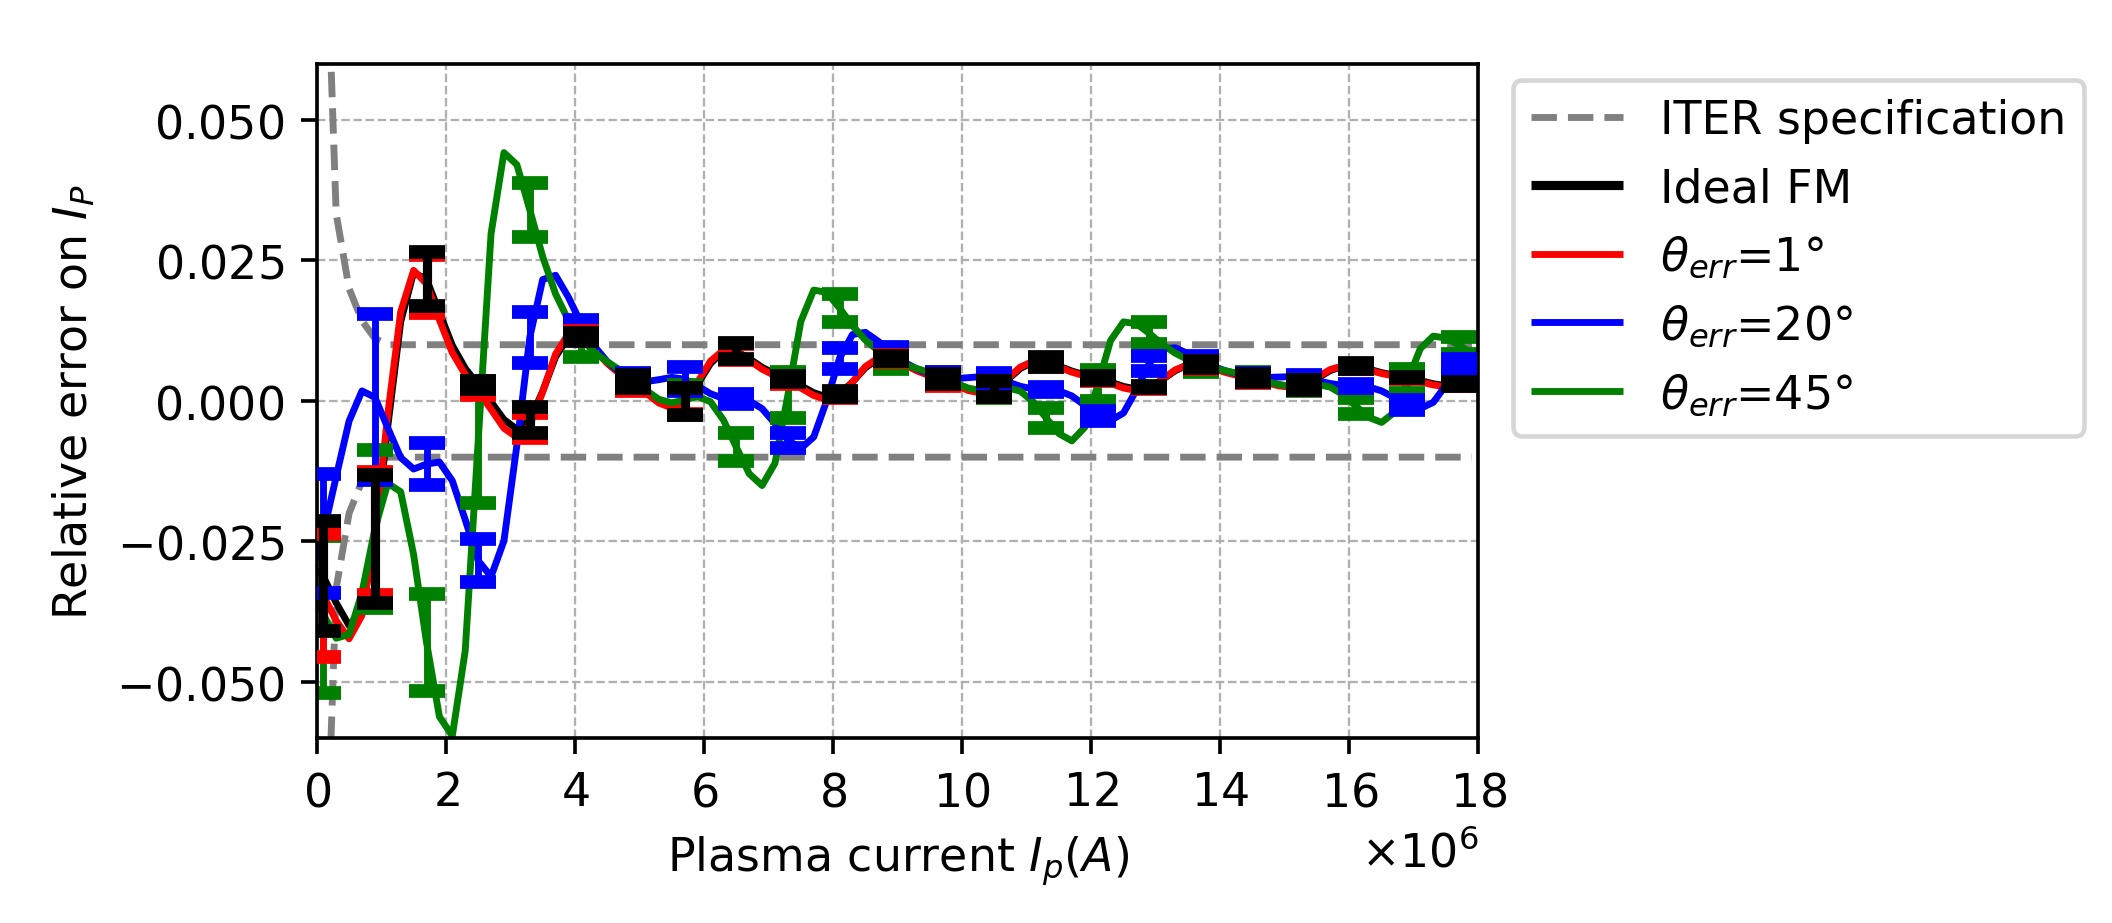
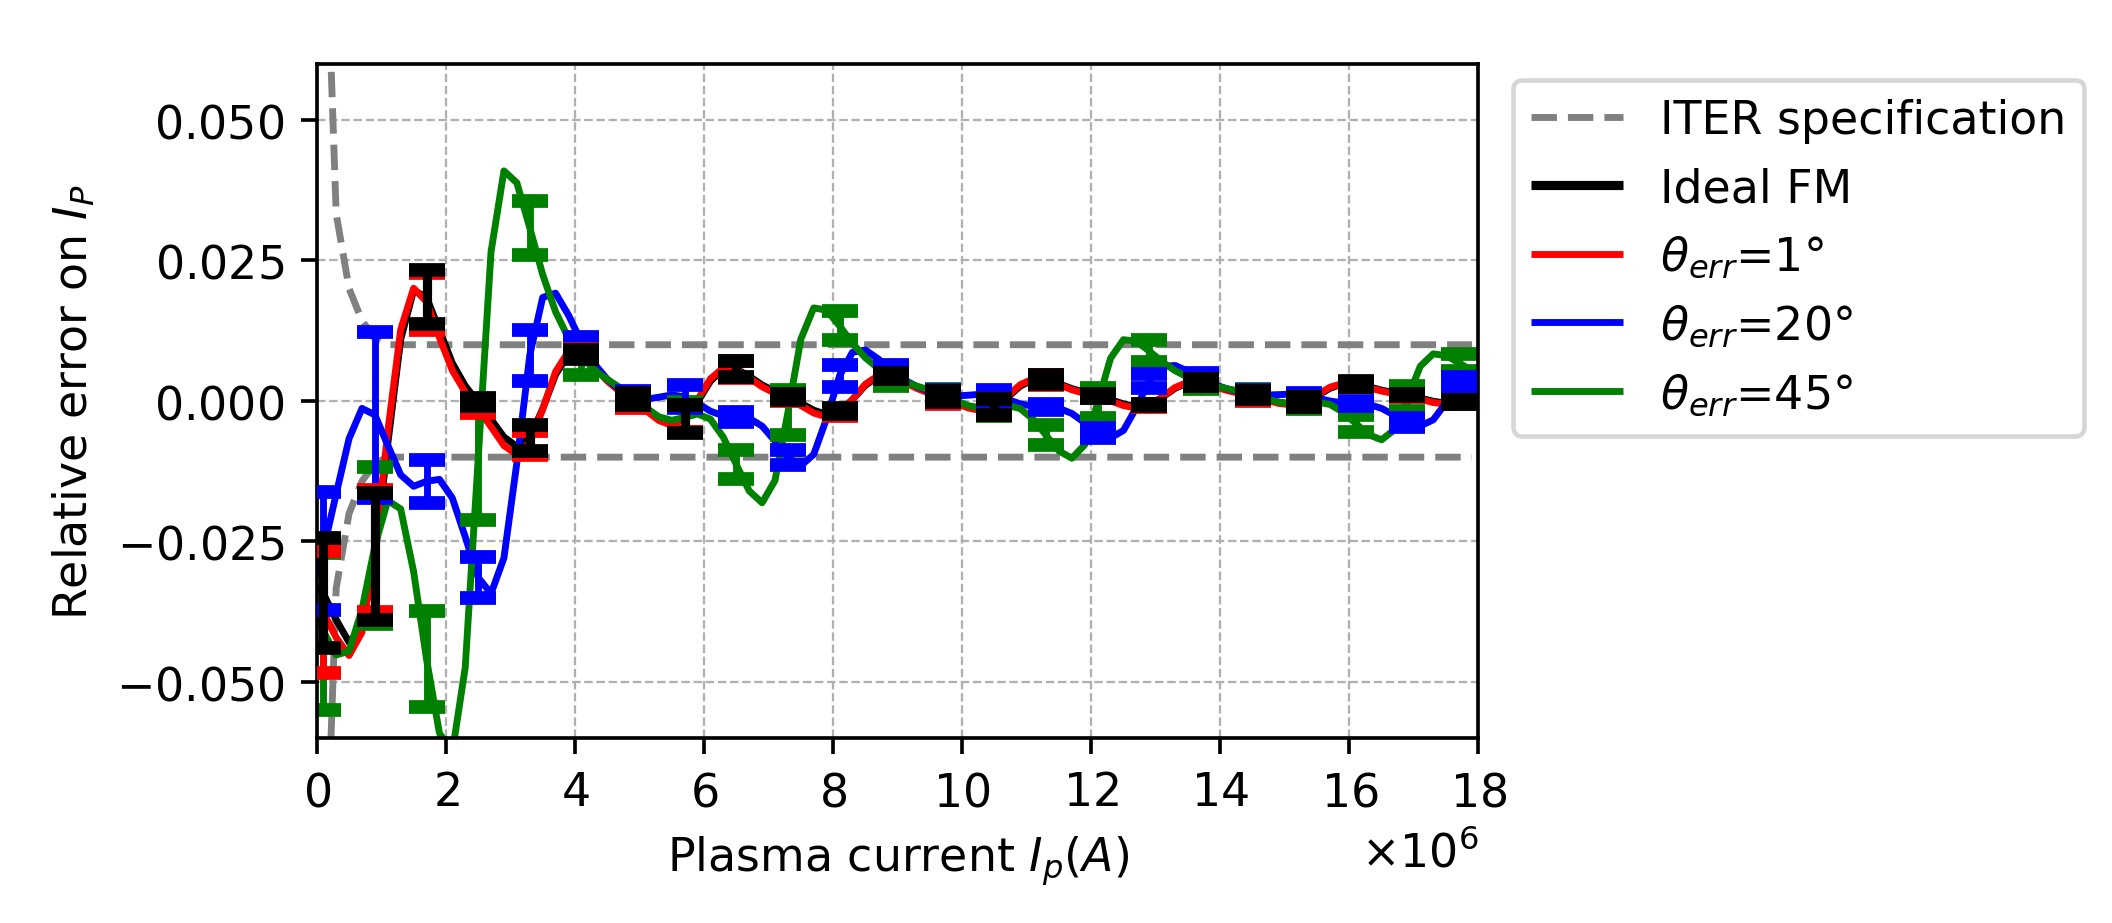
non-uniform LB

Changed region(s): [[0.125, 0.1517, 0.7188, 0.7887]]

diff --git a/FOCS_SIM_220501.py b/FOCS_SIM_220501.py
@@ -1,3 +1,11 @@
+'''
+Created 2022.06.02
+for journal paper
+
+FOCS accuracy Simulation with FM imperfection.
+
+'''
+
 # print(os.getcwd())
 # print(os.path.dirname(os.path.dirname(__file__)) + '\My_library')
 # sys.path.append(os.path.dirname(os.path.dirname(__file__)) + '\My_library')
@@ -41,7 +49,7 @@ def cm_to_rgba_tuple(colors,alpha=1):
     return tmp
 
 if __name__ == '__main__':
-    mode = 2
+    mode = 3
     LB = 1.000
     SP = 0.005
     # dz = SP / 1000
@@ -183,12 +191,12 @@ if __name__ == '__main__':
             while isEOF is False:
                 V_I, S, isEOF = load_stokes_fromfile(strfile1 + "_S", nn)
 
-                fig, ax, lines = plot_error_byStokes(V_I, S, fig=fig, ax=ax, lines=lines, V_custom=V2*0.962,label=str(nn))
+                fig, ax, lines = plot_error_byStokes(V_I, S, fig=fig, ax=ax, lines=lines, V_custom=V2*0.965,label=str(nn))
                 fig3, lines3 = plot_Stokes(V_I[20:35:2], S[20:35:2], fig=fig3, lines=lines3, opacity=opacity)
 
                 if nn == 0:
                     dic_err['V_I'] = V_I
-                dic_err[str(nn)] = cal_error_fromStocks(V_I, S, V_custom=V2*0.962)
+                dic_err[str(nn)] = cal_error_fromStocks(V_I, S, V_custom=V2*0.965)
                 c = np.array([None, None, None])
                 nn += 1
                 # if nn > 0:
@@ -321,6 +329,161 @@ if __name__ == '__main__':
     #
     #     #fig3, ax3, lines3 = plot_error_byfile2(strfile1 + "_S")
         fig3.show()
+
+    elif mode == 3:
+
+        V_strfile = ['Lobi_45FM_errdeg1x5_220601.csv',
+                     'Hibi_45FM_errdeg1x5_220601.csv']
+
+        V_label = ['Ideal FM', 'Nonideal ']
+        V2 = 0.54 * 4 * pi * 1e-7 * 2
+
+        fig, ax, lines, isEOF, nn = None, None, None, False, 0
+        fig3, lines3, opacity = None, None, 0.5
+        fig10, ax10, lines10 = None, None, []
+        c = np.array([None, None, None])
+
+
+        for strfile1 in V_strfile:
+            dic_err = {}
+            nn = 0
+            while isEOF is False:
+                V_I, S, isEOF = load_stokes_fromfile(strfile1 + "_S", nn)
+
+                Vtmp  = V2 if strfile1 == 'Lobi_45FM_errdeg1x5_220531.csv' else V2 * 0.962
+                if nn == 0:
+                    dic_err['V_I'] = V_I
+                dic_err[str(nn)] = cal_error_fromStocks(V_I, S, V_custom=Vtmp)
+                c = np.array([None, None, None])
+                nn += 1
+                # if nn > 0:
+                #     break
+
+            fig10, ax10, lines10 = plot_errorbar_byDic(dic_err, fig=fig10, ax=ax10, lines=lines10, init_index=21)
+            isEOF = False
+        # ax10.legend(lines10, ['ITER specification', '',
+        #                                  r'Ideal FM $\theta_{err}$=0$\degree$',
+        #                                  r'$\theta_{err}$=1$\degree$', '', '','', ''])
+
+        ax10.legend( [lines10[0], lines10[4], lines10[7]],
+                     ['ITER specification',
+                      'lo-bi spun fiber',
+                      'hi-bi spun fiber'],
+                     bbox_to_anchor=(1.01, 1.01), loc="upper left")
+        #fig10.savefig("fig9.(b).jpg", dpi=330)
+
+        # print(legend)
+        # r'$\theta_{err}$=20$\degree$'])
+        # r'$\theta_{err}$=45$\degree$'])
+
+        #ax.legend()
+    # elif mode ==5:
+    #
+    #     strfile1 = 'FMerror.csv'
+    #     num_iter = 500
+    #
+    #     nM_vib = 5
+    #     #ang_FM = np.arange(0,46,1)
+    #     ang_FM = np.arange(0, 46, 1)
+    #
+    #     E = Jones_vector('input')
+    #     E1 = Jones_vector('output')
+    #     azi = np.array([0, pi / 6, pi / 4])
+    #     E.general_azimuth_ellipticity(azimuth=azi, ellipticity=0)
+    #     #fig1, ax1 = spunfiber.init_plot_SOP()
+    #     S = create_Stokes('O')
+    #
+    #     # outdict = {}
+    #     # for nn in ang_FM:
+    #     #     Vin = E[0].parameters.matrix()
+    #     #     print(nn)
+    #     #     Vout = spunfiber.cal_2ndBridge(45+nn/10, num_iter, Vin=Vin)
+    #     #     outdict[str(int(nn)) + ' Ex'] = Vout[:, 0, 0]
+    #     #     outdict[str(int(nn)) + ' Ey'] = Vout[:, 1, 0]
+    #     # df = pd.DataFrame(outdict)
+    #     # df.to_csv(strfile1, index=False)
+    #
+    #
+    #     ######## FM error############
+    #     fig, ax = plt.subplots(figsize=(6, 5))
+    #     lines = []
+    #     # ax.set_prop_cycle(cc)
+    #
+    #     ax.set_xlabel(r'FM angle error $\theta_{err}(\degree)$')
+    #     ax.set_ylabel(r'SOP deviation ($\degree$)')
+    #
+    #     # ax.set(xlim=(0, 45), ylim=(0, 12))
+    #     ax.set(xlim=(0, 45), ylim=(0, 12))
+    #
+    #     ax.yaxis.set_major_locator(MaxNLocator(6))
+    #     ax.xaxis.set_major_locator(MaxNLocator(10))
+    #
+    #     ax.xaxis.set_major_formatter(OOMFormatter(0, "%1.0f"))
+    #     ax.yaxis.set_major_formatter(OOMFormatter(0, "%2.1f"))
+    #
+    #     ax.ticklabel_format(axis='x', style='sci', useMathText=True, scilimits=(-3, 5))
+    #     ax.grid(ls='--', lw=0.5)
+    #
+    #     fig.subplots_adjust(hspace=0.4,left =0.17, right=0.95, top=0.93, bottom=0.2)
+    #
+    #     ######################
+    #
+    #
+    #     data = pd.read_csv(strfile1)
+    #     fig3, lines3, opacity = None, None, 1
+    #
+    #     # color palette prepared for each input SOPs with plotly library
+    #     colors_Viridis_tmp = px.colors.sample_colorscale("Viridis", [n / (len(ang_FM) - 1) for n in range(len(ang_FM))])
+    #     colors_Viridis = cm_to_rgba_tuple(colors_Viridis_tmp)
+    #     out_ellip = zeros(len(ang_FM))
+    #
+    #     for nn in range(int(data.shape[1] / 2)):
+    #
+    #         str_Ex = str(nn) + ' Ex'
+    #         str_Ey = str(nn) + ' Ey'
+    #         Vout = np.array([[complex(x) for x in data[str_Ex].to_numpy()],
+    #                          [complex(y) for y in data[str_Ey].to_numpy()]])
+    #         E.from_matrix(Vout)
+    #         S.from_Jones(E)
+    #         #draw_stokes_points(fig1[0], S, kind='scatter', color_scatter='r')
+    #         fig3, lines3 = plot_Stokes_pnt2(S, fig=fig3, lines=lines3, opacity=opacity, color_pnt=rgb2hex(colors_Viridis[nn]))
+    #         ellip = S.parameters.ellipticity_angle()
+    #         out_ellip[-1-nn] = ellip.max() - ellip.min()
+    #
+    #     ax.plot(ang_FM, out_ellip*180/pi, 'k')
+    #     #fig3.update_traces(marker_size=3)
+    #     colorbar_param = dict(lenmode='fraction', len=0.75, thickness=10, tickfont=dict(size=20),
+    #                           tickvals=np.linspace(0, len(ang_FM), 4),
+    #                           ticktext=['0', '15', '30', '45'],
+    #                           # title='Azimuth angle',
+    #                           outlinewidth=1,
+    #                           x=0.2)
+    #     colorbar_trace = go.Scatter(x=[None], y=[None],
+    #                                 mode='markers',
+    #                                 marker=dict(
+    #                                     colorscale='Viridis',
+    #                                     showscale=True,
+    #                                     cmin=0,
+    #                                     cmax=len(ang_FM),
+    #                                     colorbar=colorbar_param
+    #                                 ),
+    #                                 hoverinfo='none'
+    #                                 )
+    #     fig3.add_trace(colorbar_trace)
+    #     fig3['layout']['paper_bgcolor'] = 'rgba(0,0,0,0)'
+    #     fig3['layout']['plot_bgcolor'] = 'rgba(0,0,0,0)'
+    #     fig3.update_yaxes(showticklabels=False, showgrid=False, visible=False)
+    #     fig3.update_xaxes(showticklabels=False, showgrid=False, visible=False)
+    #
+    #
+    #     #fig2, ax2, lines = spunfiber.plot_error(strfile1)
+    #
+    #     # labelTups = [('Stacking matrix (dz = SP/25)', 0), ('Lamming method with small step (dz = SP/25)', 1),
+    #     #              ('Lamming method for whole fiber (dz = L)', 2), ('Iter specification', 3)]
+    #     # ax2.legend(lines, [lt[0] for lt in labelTups], loc='upper right', bbox_to_anchor=(0.7, .8))
+    #
+    #     #fig3, ax3, lines3 = plot_error_byfile2(strfile1 + "_S")
+    #     fig3.show()
 
     plt_fmt, plt_res = '.png', 330  # 330 is max in Word'16
     plt.rcParams["axes.titlepad"] = 5  # offset for the fig title

diff --git a/FOCS_SIM_220519.py b/FOCS_SIM_220519.py
@@ -1,3 +1,9 @@
+'''
+Created 2022.06.02
+for analysing JET fiber's behavior
+
+'''
+
 # print(os.getcwd())
 # print(os.path.dirname(os.path.dirname(__file__)) + '\My_library')
 # sys.path.append(os.path.dirname(os.path.dirname(__file__)) + '\My_library')
@@ -11,7 +17,7 @@ start = time.process_time()
 # from My_Library import SPUNFIBRE_lib
 import plotly.offline
 
-from My_Library.SPUNFIBRE_lib import *
+from My_Library.SPUNFIBER2_lib import *
 from My_Library.draw_figures_FOCS import *
 
 from My_Library.basis_correction_lib import *
@@ -42,14 +48,14 @@ def cm_to_rgba_tuple(colors,alpha=1):
     return tmp
 
 if __name__ == '__main__':
-    mode =0
+    mode =4
     # Crystal Techno lobi spun fiber
     LB = 0.3
     SP = 0.005
     # dz = SP / 1000
     dz = 0.0001
     len_lf = 1  # lead fiber
-    len_ls = 1  # sensing fiber
+    len_ls = 5  # sensing fiber
     spunfiber = SPUNFIBER(LB, SP, dz, len_lf, len_ls)
 
     #strfile1 = 'Hibi_46FM_errdeg1x5_220506.csv'
@@ -259,6 +265,79 @@ if __name__ == '__main__':
         fig3.update_scenes(camera_projection_type='orthographic')
         fig3.show()
         #plotly.offline.plot(fig3, filename='xx.html')
+
+    elif mode == 4:
+        fig = None
+        V_I = arange(0e6, 10e6 + 0.1e6, 0.2e6)
+        Ip = zeros(len(V_I))
+
+        V_out = np.einsum('...i,jk->ijk', ones(len(V_I)) * 1j, np.mat([[0], [0]]))
+
+        # V_I = 1e6
+        out_dict = {'Ip': V_I}
+        out_dict2 = {'Ip': V_I}
+        start = pd.Timestamp.now()
+        ang_FM = 45
+
+        E = Jones_vector('input')
+        azi = np.array([0, pi/6, pi/4])
+        E.general_azimuth_ellipticity(azimuth=azi, ellipticity=pi/12)
+        fig1, ax1 = spunfiber.init_plot_SOP()
+        S = create_Stokes('O')
+        S2 = create_Stokes('1')
+
+
+        Vin = E[1].parameters.matrix()
+
+        s_t_r = 2 * pi / spunfiber.SP
+        spunfiber.dz = spunfiber.L / 1000
+        V_L = arange(0, spunfiber.L + spunfiber.dz, spunfiber.dz)
+        nV_L = V_L/spunfiber.L
+
+        V_theta= V_L * s_t_r
+
+        V_delta = 2*pi/(LB * (1- 1*cos(2*pi*0.5*nV_L))+0.000001)
+        print(V_delta)
+
+        for mm, iter_I in enumerate(V_I):
+            M_f = spunfiber.lamming_JET(iter_I, 1, V_delta, V_theta, V_L)
+            V_out[mm] = M_f @ Vin
+
+        E = Jones_vector('Output')
+        E.from_matrix(M=V_out)
+        V_ang = zeros(len(V_I))
+
+        # SOP evolution in Lead fiber (Forward)
+        S = create_Stokes('Output_S')
+        S.from_Jones(E)
+
+        if fig is not None:
+            draw_stokes_points(fig[0], S, kind='line', color_line='b')
+        else:
+            fig, ax = S.draw_poincare(figsize=(7, 7), angle_view=[24 * pi / 180, 31 * pi / 180], kind='line',
+                                      color_line='b')
+
+        m = 0
+        for kk in range(len(V_I)):
+            if kk > 0 and E[kk].parameters.azimuth() + m * pi - V_ang[kk - 1] < -pi * 0.8:
+                m = m + 1
+            elif kk > 0 and E[kk].parameters.azimuth() + m * pi - V_ang[kk - 1] > pi * 0.8:
+                m = m - 1
+            V_ang[kk] = E[kk].parameters.azimuth() + m * pi
+            Ip[kk] = (V_ang[kk] - pi / 2) / (spunfiber.V)
+
+        # save_Jones(strfile1,V_I,Ip,Vout)
+        #
+        #
+        #
+        # fig2, ax2, lines = spunfiber.plot_error(strfile1)
+        #
+        # # labelTups = [('Stacking matrix (dz = SP/25)', 0), ('Lamming method with small step (dz = SP/25)', 1),
+        # #              ('Lamming method for whole fiber (dz = L)', 2), ('Iter specification', 3)]
+        # # ax2.legend(lines, [lt[0] for lt in labelTups], loc='upper right', bbox_to_anchor=(0.7, .8))
+        #
+        #
+        # fig3, ax3, lines3 = plot_error_byfile2(strfile1+"_S")
 
 
     plt.show()

diff --git a/My_Library/SPUNFIBER2_lib.py b/My_Library/SPUNFIBER2_lib.py
@@ -658,6 +658,73 @@ class SPUNFIBER:
         # print(tmp) # To show where is the position of Merr
         return M
 
+    def lamming_JET(self, Ip, DIR, V_delta, V_theta, V_L):
+        """
+        :param DIR: direction (+1: forward, -1: backward)
+        :param Ip: plasma current
+        :param L: fiber length
+        :param V_theta: vector of theta (angle of optic axes)
+        :return: M matrix calculated from N matrix
+        """
+        m = 0
+        # Fiber parameter
+        s_t_r = 2 * pi / self.SP * DIR  # spin twist ratio
+        delta = 2 * pi / self.LB
+
+
+        r = self.L /(2*pi)
+        V_H = Ip / (2*pi*r) * ones(len(V_L))
+        V_rho = self.V * V_H    # <<- Vector
+
+        # --------Laming: orientation of the local slow axis ------------
+
+        V_qu = 2 * (s_t_r - V_rho) / V_delta  # <<- Vector
+        # See Note/Note 1 (sign of Farday effect in Laming's method).jpg
+        # The sign of farday rotation (rho) is opposite to that of the Laming paper, inorder
+        # to be consistant with anti-clockwise (as in Jones paper) orientation for both
+        # spin and faraday rotation.
+
+        V_gma = 0.5 * (V_delta ** 2 + 4 * ((s_t_r - V_rho) ** 2)) ** 0.5  # <<- Vector
+        '''
+        if arctan((-qu / ((1 + qu ** 2) ** 0.5)) * tan(gma * self.dz)) > 0:
+            nf = -int(gma * self.dz / pi) - 1
+        else:
+            nf = -int(gma * self.dz / pi)
+
+        if arctan((-qu / ((1 + qu ** 2) ** 0.5)) * tan(gma * self.dz)) > 0:
+            nb = int(gma * self.dz / pi)
+        else:
+            nb = int(gma * self.dz / pi) + 1
+        '''
+        V_n = zeros(len(V_rho))
+        for nn in range(len(V_rho)):
+            if arctan((-V_qu[nn] / ((1 + V_qu[nn] ** 2) ** 0.5)) * tan(V_gma[nn] * self.dz)) > 0:
+                V_n[nn] = -DIR*int(V_gma[nn] * self.dz / pi) - 0.5*(1+DIR)
+            else:
+                V_n[nn] = -DIR*int(V_gma[nn] * self.dz / pi) + 0.5*(1-DIR)
+
+        V_omega = s_t_r * self.dz + arctan((-V_qu / ((1 + V_qu ** 2) ** 0.5)) * tan(V_gma * self.dz)) + V_n * pi  # <<- Vector
+        V_R = 2 * arcsin(sin(V_gma * self.dz) / ((1 + V_qu ** 2) ** 0.5))  # <<- Vector
+        V_phi = ((s_t_r * self.dz) - V_omega) / 2 + m * (pi / 2)
+        V_phi += V_theta if DIR == 1 else np.flip(V_theta)
+
+        n11 = cos(V_R / 2) + 1j * sin(V_R / 2) * cos(2 * V_phi)
+        n12 = 1j * sin(V_R / 2) * sin(2 * V_phi)
+        n21 = 1j * sin(V_R / 2) * sin(2 * V_phi)
+        n22 = cos(V_R / 2) - 1j * sin(V_R / 2) * cos(2 * V_phi)
+
+        M_R = np.array([[n11, n21], [n12, n22]]).T
+        M_omega = np.array([[cos(V_omega), sin(V_omega)], [-sin(V_omega), cos(V_omega)]]).T
+
+        # Note that [[n11,n21],[n21,n22]].T calculation is [[n11[0], n12[0]],[n21[0],n22[0]], ...
+        # Therefore, M_R, M_omega array should be defined as transposed matrix to have correct matrix.
+
+        M = np.array([[1, 0], [0, 1]])
+        for nn in range(len(V_theta)-1):
+            M = M_omega[nn] @ M_R[nn] @ M
+
+        return M
+
     def f_in_bridge(self, Ip, DIR, n_Bridge, V_theta, V_LF, M_vib=None ):
         """
         :param DIR: direction (+1: forward, -1: backward)
@@ -1454,7 +1521,6 @@ class SPUNFIBER:
         S = create_Stokes('Output_S')
         fig, ax= S.draw_poincare(figsize=(7, 7), angle_view=[24 * pi / 180, 31 * pi / 180], kind='line')
         return fig, ax
-
 
 def save_Jones(filename, Vin, Ip_m, Vout):
     if os.path.exists(filename):
